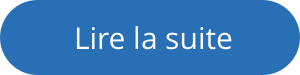
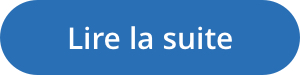
updated btn.jpg en gras

Changed region(s): [[0.21, 0.3467, 0.78, 0.6667]]

diff --git a/html/test-11.html b/html/test-11.html
@@ -182,7 +182,7 @@
           <td style="vertical-align:top;width:300px;">
       <![endif]--><div class="mj-column-per-50 outlook-group-fix" style="vertical-align:top;display:inline-block;direction:ltr;font-size:13px;text-align:left;width:100%;"><table role="presentation" cellpadding="0" cellspacing="0" width="100%" border="0"><tbody><tr><td style="word-wrap:break-word;font-size:0px;padding:0px;padding-bottom:10px;padding-right:5px;padding-left:5px;" align="left"><table role="presentation" cellpadding="0" cellspacing="0" style="border-collapse:collapse;border-spacing:0px;" align="left" border="0"><tbody><tr><td style="width:0px;"><img alt="" title="" height="auto" src="https://raw.githubusercontent.com/arnaudambro/Malakoff/master/img/img_1.jpg" style="border:none;border-radius:0px;display:block;font-size:13px;outline:none;text-decoration:none;width:100%;height:auto;" width="0"></td></tr></tbody></table></td></tr></tbody></table></div><!--[if mso | IE]>
       </td><td style="vertical-align:top;width:300px;">
-      <![endif]--><div class="mj-column-per-50 outlook-group-fix" style="vertical-align:top;display:inline-block;direction:ltr;font-size:13px;text-align:left;width:100%;"><table role="presentation" cellpadding="0" cellspacing="0" width="100%" border="0"><tbody><tr><td style="word-wrap:break-word;font-size:0px;padding:0px;padding-bottom:0px;padding-right:5px;padding-left:5px;" align="left"><div style="cursor:auto;color:#f18a01;font-family:Open Sans, Arial, sans-serif;font-size:17px;line-height:1.2;text-align:left;">Prenez soin de la nature<br>elle vous le rendra !</div></td></tr><tr><td style="word-wrap:break-word;font-size:0px;padding:0px;padding-right:5px;padding-left:5px;" align="left"><div style="cursor:auto;color:#f18a01;font-family:Open Sans, Arial, sans-serif;font-size:40px;line-height:22px;text-align:left;">⎯⎯⎯⎯⎯</div></td></tr><tr class="minheight80"><td style="word-wrap:break-word;font-size:0px;padding:0px;padding-top:10px;padding-right:5px;padding-left:5px;" align="left"><div style="min-height: 80px; cursor: auto; color: #555; font-family: Open Sans, Arial, sans-serif; font-size: 14px; line-height: 1.3; text-align: left;">Entretenir un jardin, faire pousser de jolies plantes sur son balcon ou partager d’agréables moments dans un potager collaboratif : le jardinage sous toutes ses formes est une source inépuisable de bienfaits. Pour la tête et les jambes !</div></td></tr><tr><td style="word-wrap:break-word;font-size:0px;padding:0px;padding-top:10px;padding-bottom:10px;padding-right:5px;padding-left:5px;" align="right"><table role="presentation" cellpadding="0" cellspacing="0" style="border-collapse:collapse;border-spacing:0px;" align="right" border="0"><tbody><tr><td style="width:130px;"><img alt="" title="" height="auto" src="https://raw.githubusercontent.com/arnaudambro/Malakoff/master/img/btn.png" style="border:none;border-radius:0px;display:block;font-size:13px;outline:none;text-decoration:none;width:100%;height:auto;" width="130"></td></tr></tbody></table></td></tr></tbody></table></div><!--[if mso | IE]>
+      <![endif]--><div class="mj-column-per-50 outlook-group-fix" style="vertical-align:top;display:inline-block;direction:ltr;font-size:13px;text-align:left;width:100%;"><table role="presentation" cellpadding="0" cellspacing="0" width="100%" border="0"><tbody><tr><td style="word-wrap:break-word;font-size:0px;padding:0px;padding-bottom:0px;padding-right:5px;padding-left:5px;" align="left"><div style="cursor:auto;color:#f18a01;font-family:Open Sans, Arial, sans-serif;font-size:17px;line-height:1.2;text-align:left;">Prenez soin de la nature<br>elle vous le rendra !</div></td></tr><tr><td style="word-wrap:break-word;font-size:0px;padding:0px;padding-right:5px;padding-left:5px;" align="left"><div style="cursor:auto;color:#f18a01;font-family:Open Sans, Arial, sans-serif;font-size:40px;line-height:22px;text-align:left;">⎯⎯⎯⎯⎯</div></td></tr><tr class="minheight80"><td style="word-wrap:break-word;font-size:0px;padding:0px;padding-top:10px;padding-right:5px;padding-left:5px;" align="left"><div style="min-height: 80px; cursor: auto; color: #555; font-family: Open Sans, Arial, sans-serif; font-size: 14px; line-height: 1.3; text-align: left;">Entretenir un jardin, faire pousser de jolies plantes sur son balcon ou partager d’agréables moments dans un potager collaboratif : le jardinage sous toutes ses formes est une source inépuisable de bienfaits. Pour la tête et les jambes !</div></td></tr><tr><td style="word-wrap:break-word;font-size:0px;padding:0px;padding-top:10px;padding-bottom:10px;padding-right:5px;padding-left:5px;" align="right"><table role="presentation" cellpadding="0" cellspacing="0" style="border-collapse:collapse;border-spacing:0px;" align="right" border="0"><tbody><tr><td style="width:130px;"><img alt="" title="" height="auto" src="https://raw.githubusercontent.com/arnaudambro/Malakoff/master/img/CTA1.jpg" style="border:none;border-radius:0px;display:block;font-size:13px;outline:none;text-decoration:none;width:100%;height:auto;" width="130"></td></tr></tbody></table></td></tr></tbody></table></div><!--[if mso | IE]>
       </td></tr></table>
       <![endif]--></td></tr></tbody></table></div><!--[if mso | IE]>
       </td></tr></table>
